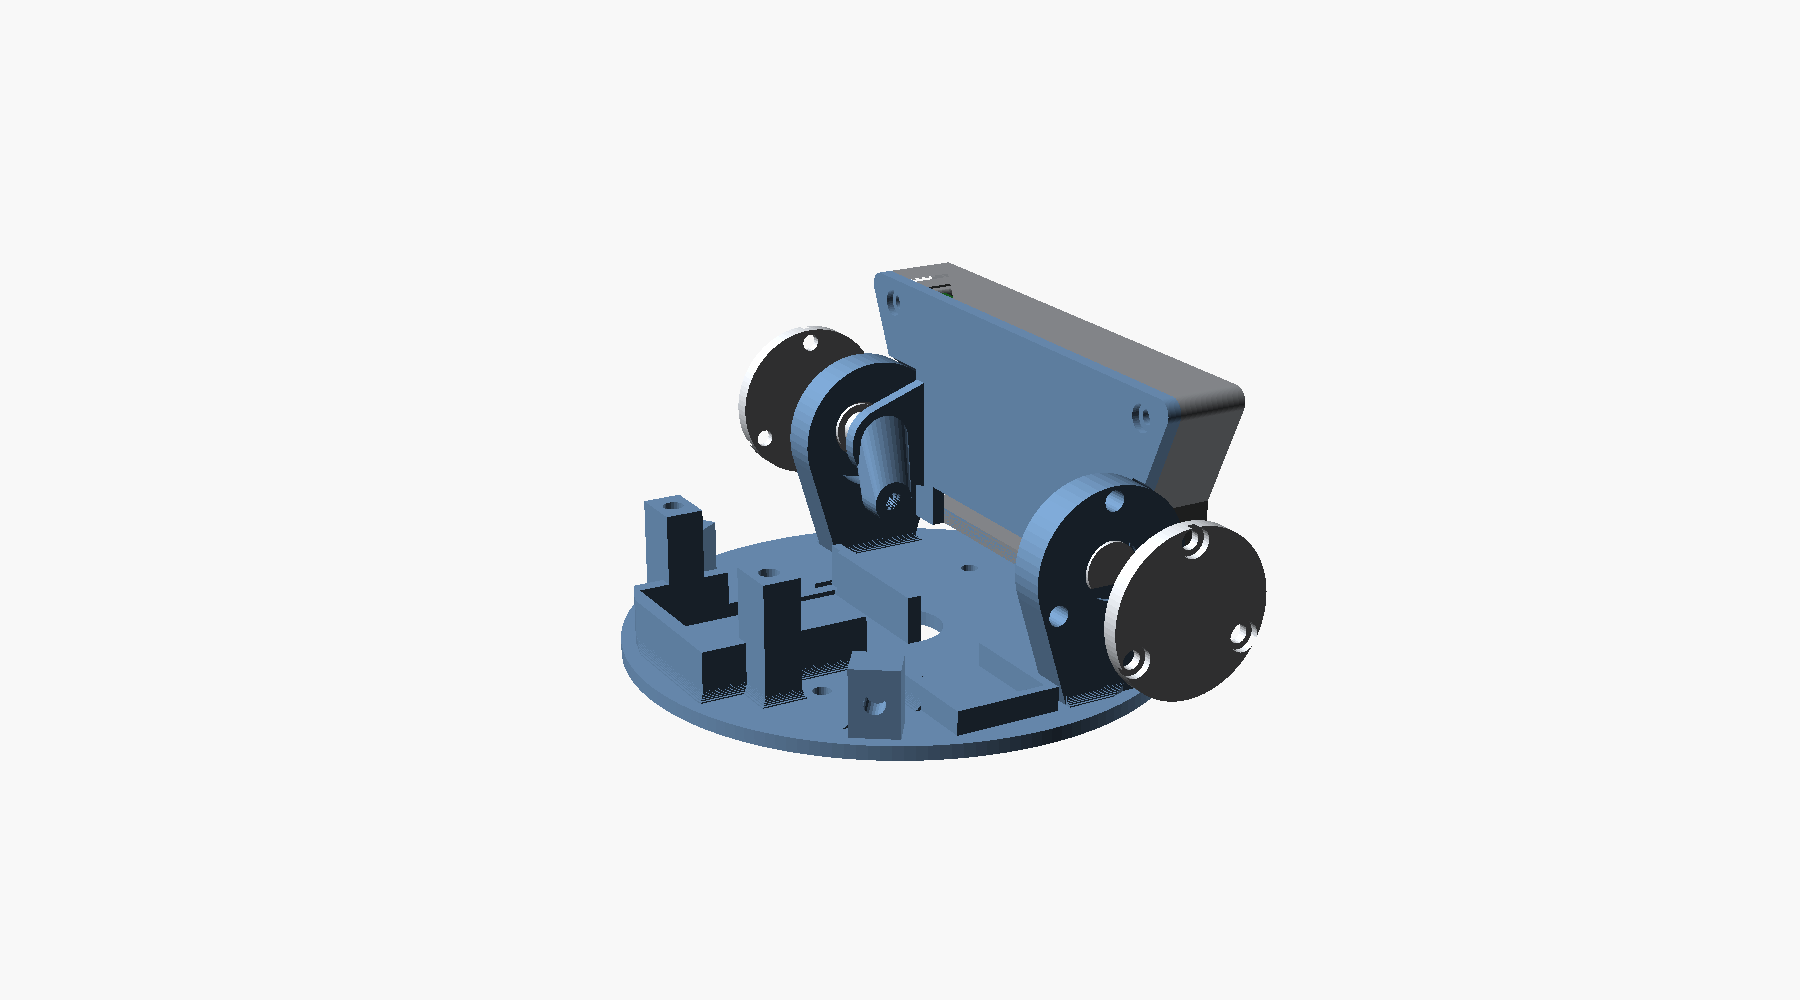
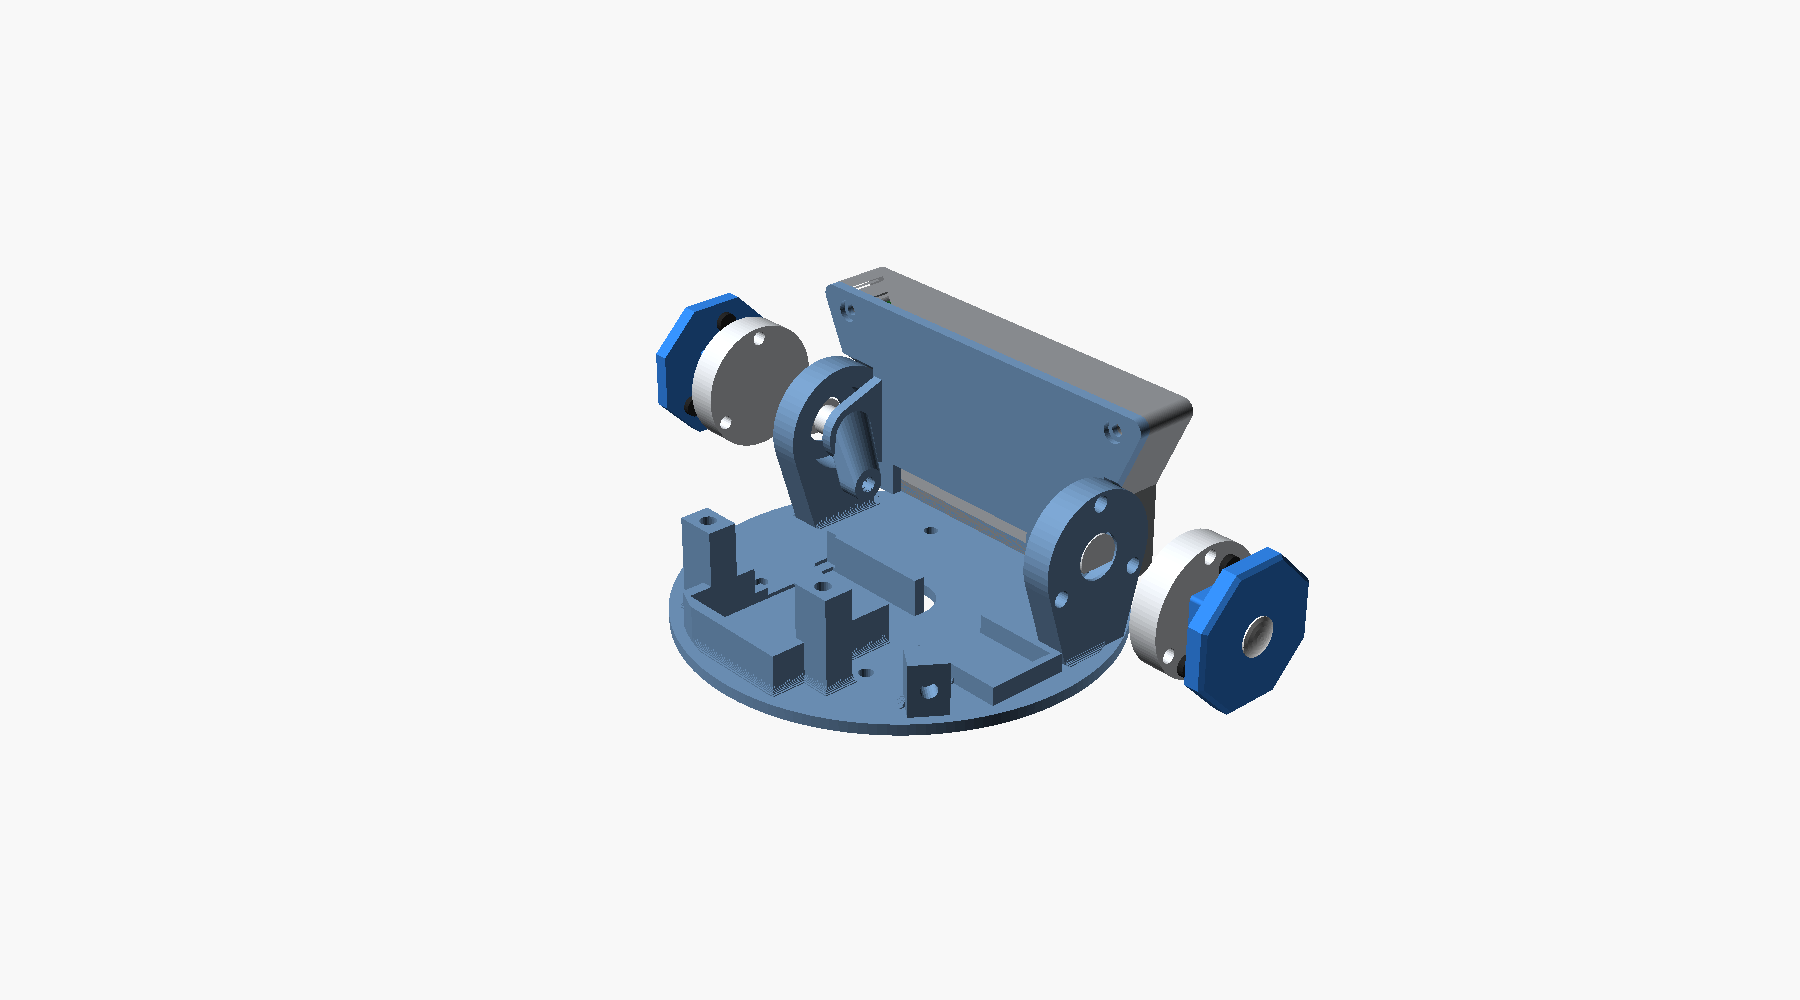
Cowl: remove cheek-cutout tips, 3 mm inner fillet; ears: 8 mm cover with square pocket + M3 insert, square-stalk octagon ear, domed plug
New parts base_cover_v5, base_ear_v5, base_plug_v5 (base_cover_v4 archived). Run book, parts legend and renders updated.

Changed region(s): [[0.3422, 0.248, 0.7467, 0.775]]

diff --git a/hardware/cad/docs/build_photos/README.md b/hardware/cad/docs/build_photos/README.md
@@ -81,10 +81,22 @@ mic cans in their pockets. One side is held by an M2.5 x 12 bolt through the edg
 | 5 | Tilt servo in its cradle, strap, crank on the horn | **`base_strap_v4.3mf`** (1); `base_crank_v4.3mf` is printed  |
 | 6 | 608 bearings and the head into the cheeks | see the note below |
 | 7 | Tilt rod (M3 rod, 2 rose joints) | none |
-| 8 | XIAO, wiring, cheek covers (6 x button-head M3 x 8), cowl | **`base_cover_v4.3mf`** (print 2); reprint `base_cowl_v4.3mf` only if you printed it before commit c652f5e |
+| 8 | XIAO, wiring, cheek covers (6 x button-head **M3 x 12**), ears, cowl | **`base_cover_v5.3mf`** (print 2), **`base_ear_v5.3mf`** (print 2), **`base_plug_v5.3mf`** (print 1, holds 2); **`base_cowl_v4.3mf`** was updated 2026-11-15 (cheek-cutout tips removed, 3 mm inner fillet on the front wall): print this version, not an older one |
 
 **Step 6 (head into the cheeks), now resolved:** press a 608 into each cheek from the inner face, slide the head in from the front (the arms' spacer bosses sit 0.2 mm from the cheeks), then push one axle pin from the outside through each bearing into the D bore of the arm (flat side down, it only fits one way).
-The pin's flange sits in the 12 mm lip bore against the bearing; the cheek cover (now flat, spigot removed, **reprint** `base_cover_v4.3mf` x 2) closes the bore and holds the pin in. No new inserts: the covers use the cheeks' existing M3 inserts.
+The pin's flange sits in the 12 mm lip bore against the bearing; the cheek cover (flat, 8 mm thick, **new** `base_cover_v5.3mf` x 2, replaces `base_cover_v4`) closes the bore and holds the pin in. It uses the cheeks' existing M3 inserts, plus one new M3 heat-set insert in the middle of each cover for the ear.
 
 ![Cheek covers](12_render_cheek_covers.png)
-*12: the two cheek covers pulled off the turret's cheeks (head and axle pins in place). Each cover is a flat 34 mm disc, 3.5 thick, held by 3 x button-head M3 x 8 (heads sit on the surface, no counterbore) into the three M3 inserts in the cheek's outer face (bolt circle r 14); it also closes the bearing bore and holds the axle pin in.*
+*12: the two cheek covers, each with its ear, pulled off the turret's cheeks (head and axle pins in place). Each cover is a flat 34 mm disc, 8 mm thick, held by 3 x button-head M3 x 12 (heads sit on the surface, no counterbore) into the three M3 inserts in the cheek's outer face (bolt circle r 14); it also closes the bearing bore and holds the axle pin in.*
+
+### Ears (decorative, step 8)
+
+![Ears fitted](15_render_ears.png)
+*15: the ears fitted: a 12 mm square stalk from the centre of each cover ending in a 36 mm octagonal disc (print blue or white). The covers are fixed to the turret, so the ears do not nod with the head.*
+
+![Ear exploded](16_render_ear_exploded.png)
+*16: one ear unit exploded, bottom to top: cover (square pocket and M3 insert in its centre), ear (square stalk sits in the pocket, so the octagon cannot turn), M3 x 18 button-head screw through the centre of the ear into the insert, domed plug glued over the screw head.*
+
+**Parts:** `base_cover_v5.3mf` x 2 (print inner face down, pocket up), `base_ear_v5.3mf` x 2 (print octagon face down, stalk up, no supports), `base_plug_v5.3mf` (one file, 2 plugs, stem down, dome up).
+**Hardware:** 2 x M3 heat-set insert (one in each cover's centre, pressed in from the pocket floor), 2 x M3 x 18 button head (ears), 6 x M3 x 12 button head (covers). Assembly: insert the M3 in each cover, push the ear's stalk into the pocket, screw the ear on, glue the plug over the head, then fit the cover on the cheek with its three screws.
+Draft clash-checked against the head (tilt -22 to 45 deg) and the cowl: clear. Source: `base_v4.scad` (`cover4`, `ear4`, `plug4`; `part = "v4_cover" | "v4_ear" | "v4_plug"`).
